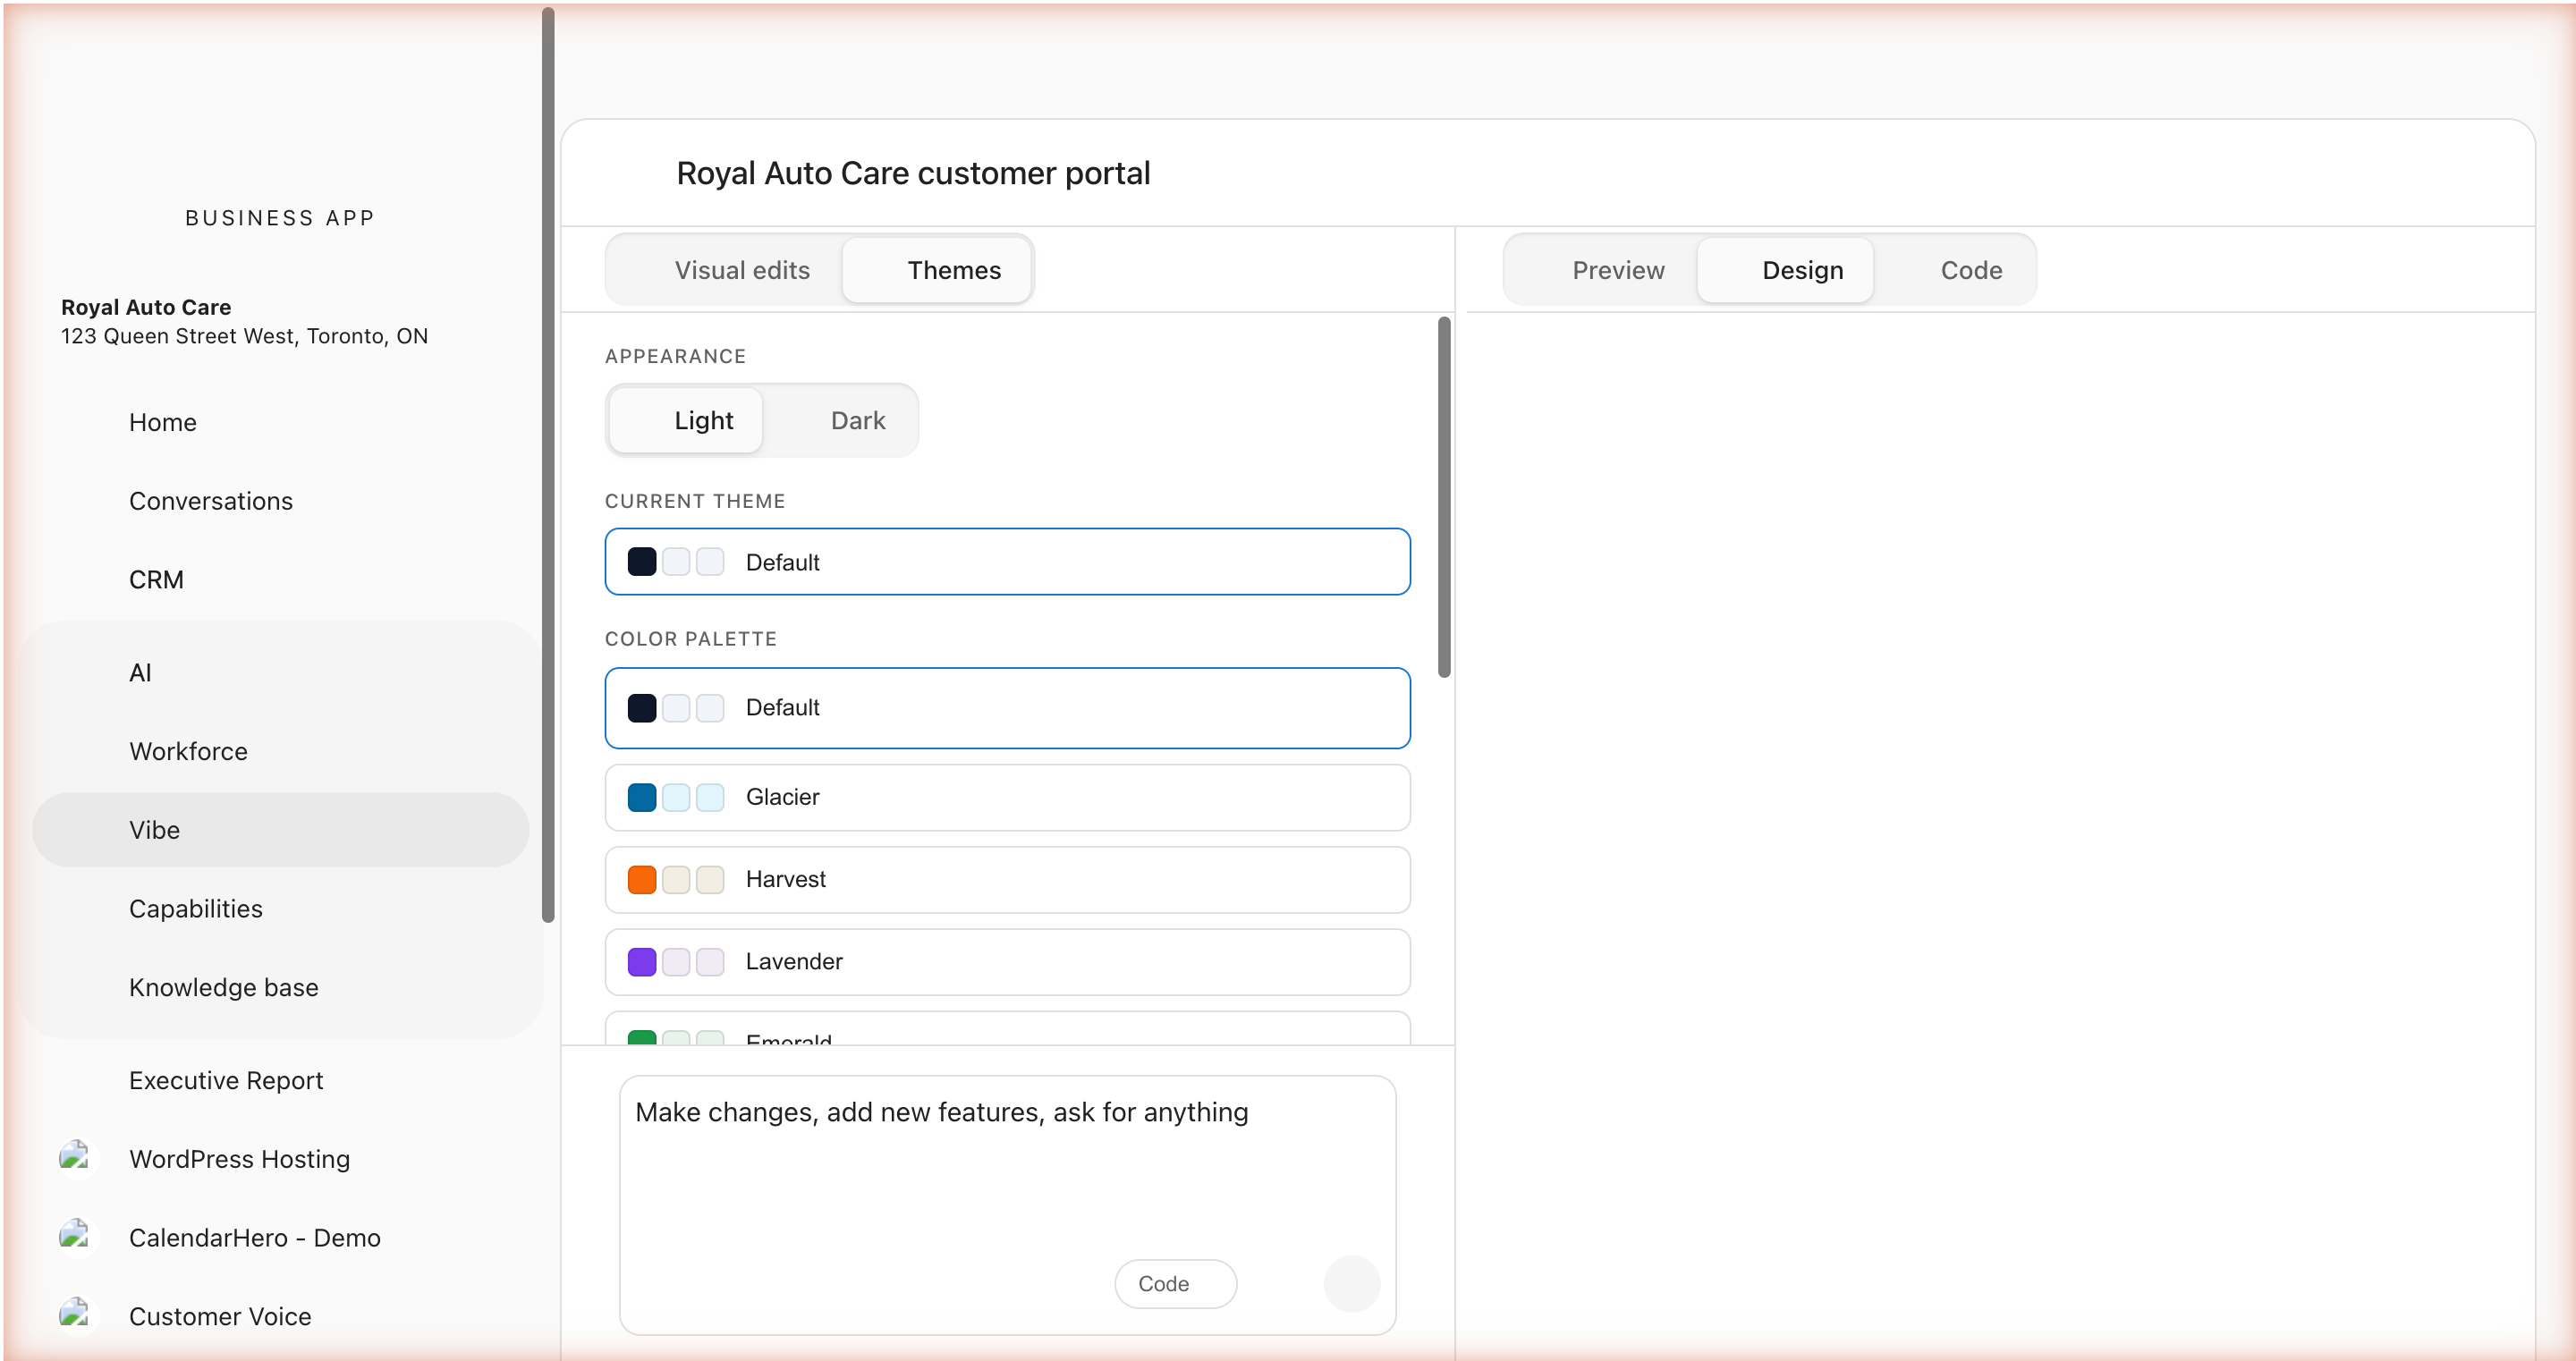
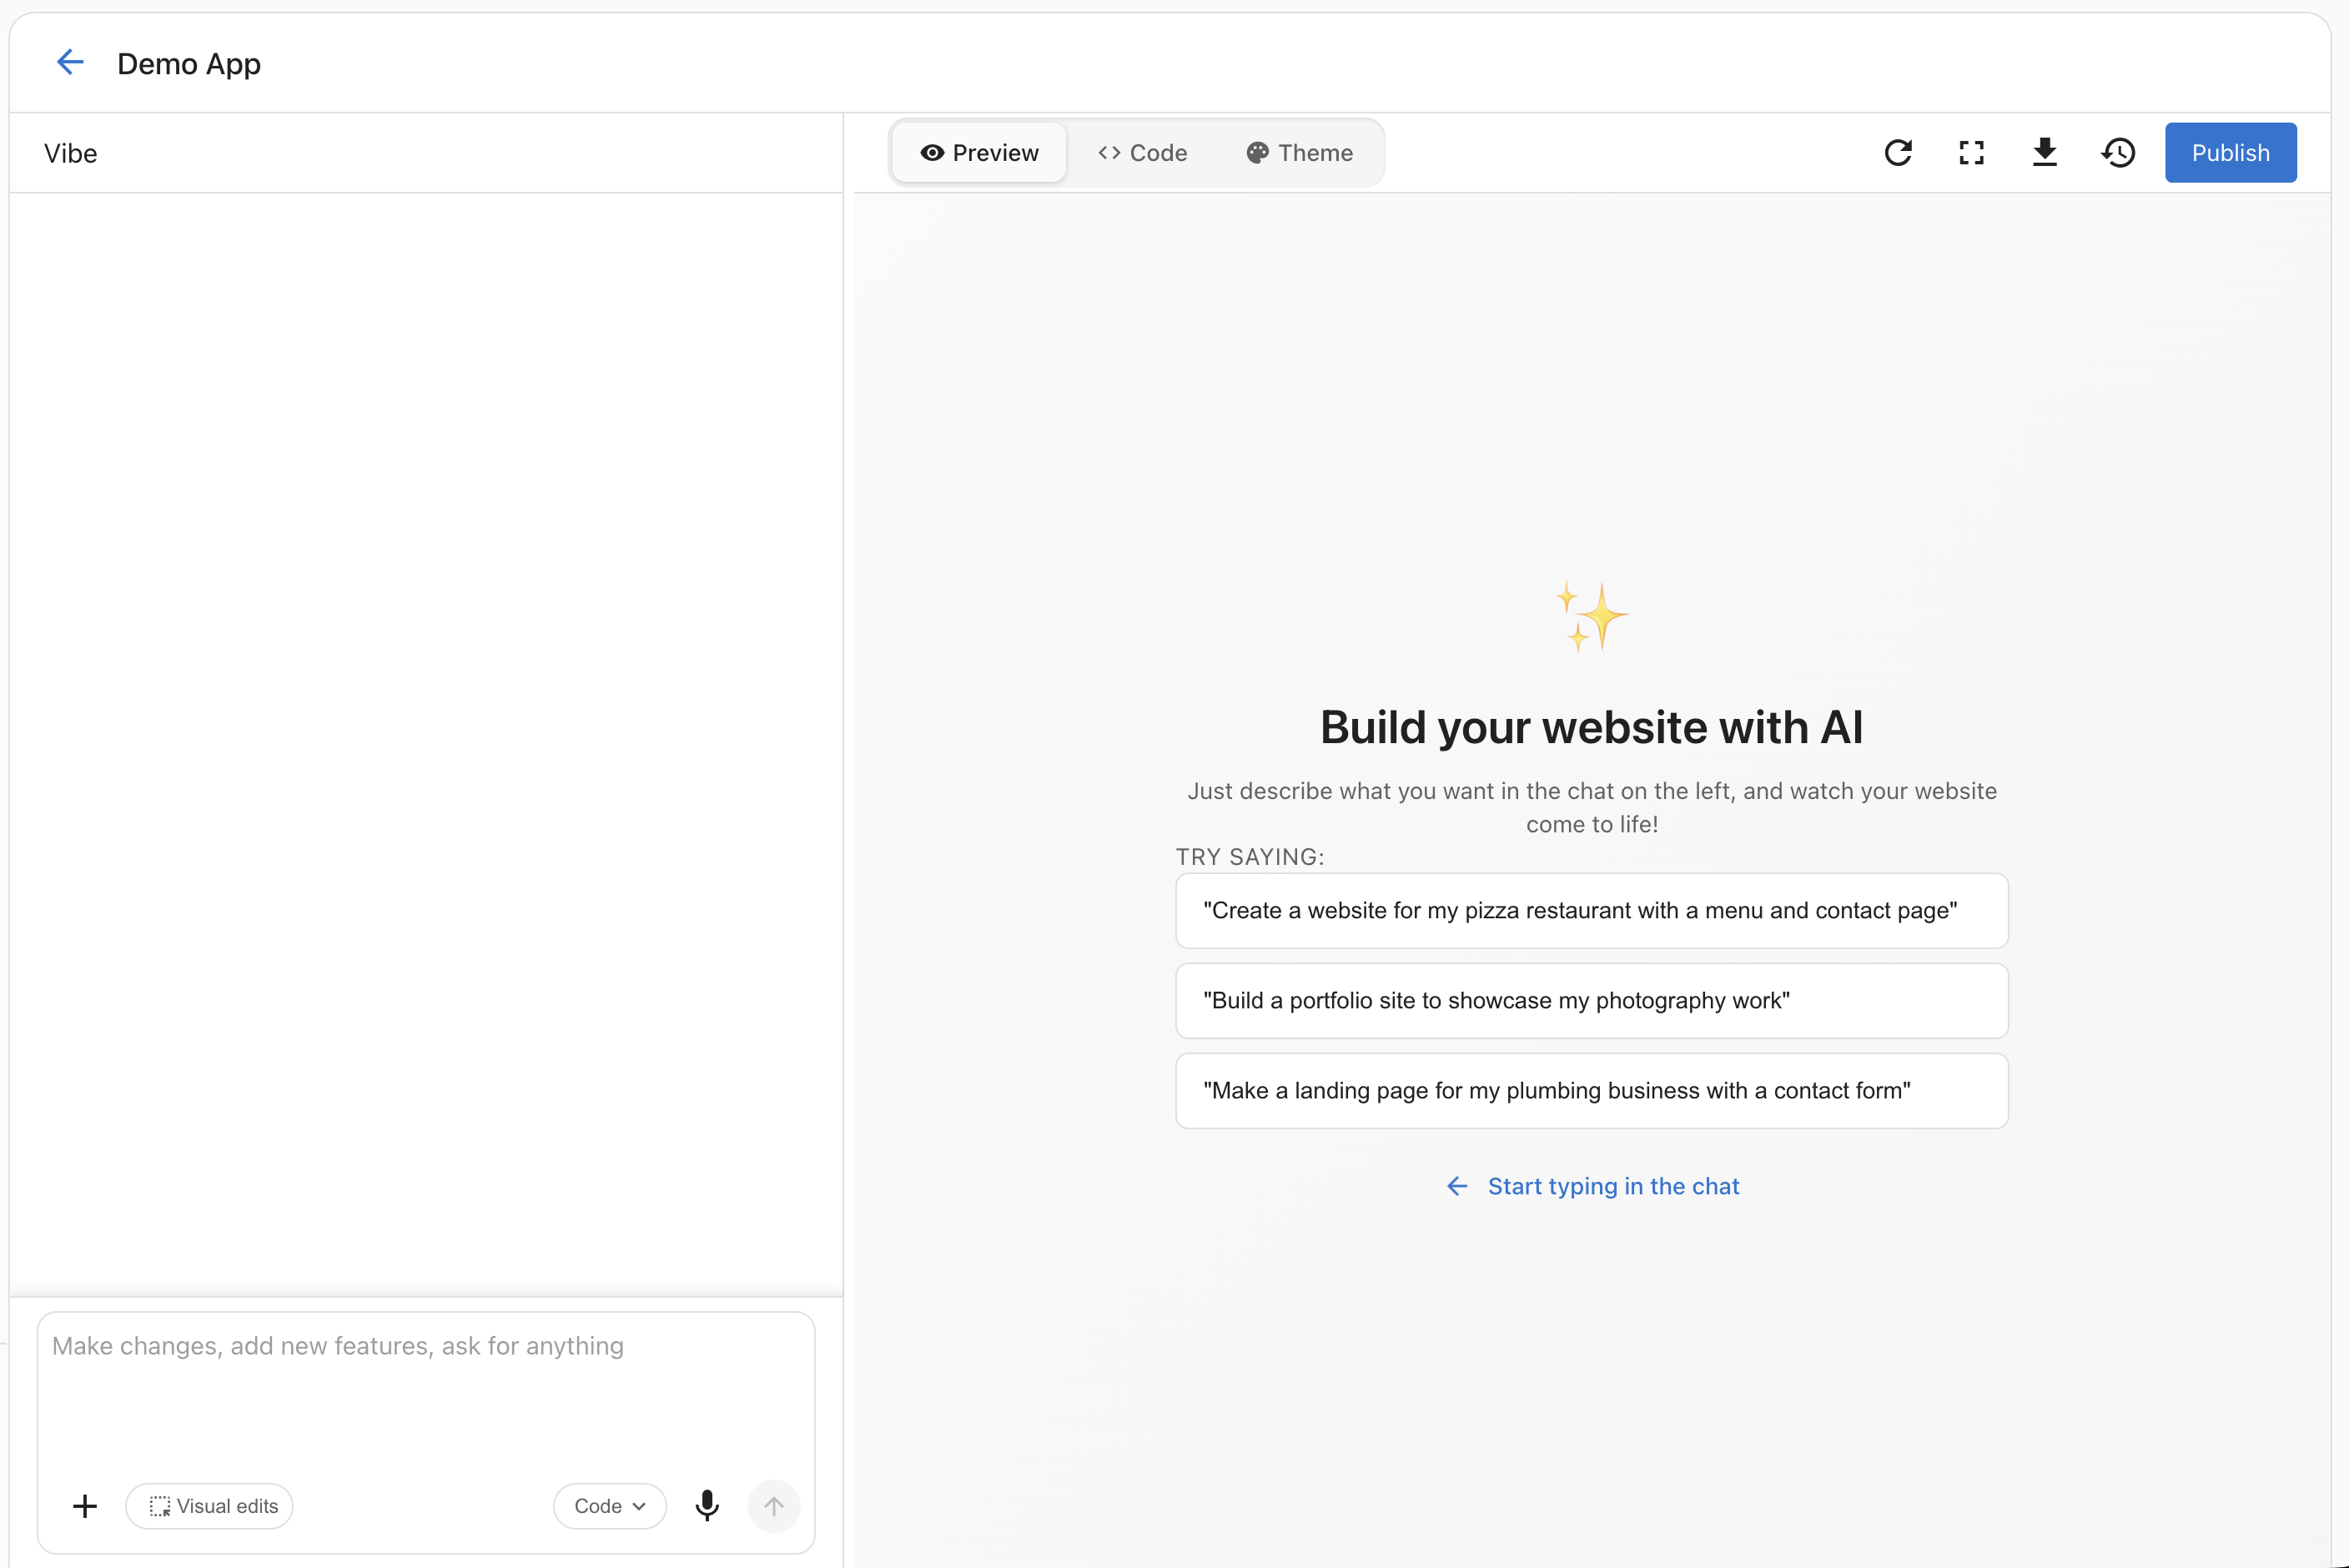
docs: update Vibe visual editor entry point to composer Visual edits button
Point users at the Visual edits toggle in the chat composer instead of the
Design tab/mode segmented control, and refresh the design-mode screenshot to
show the new composer button.

diff --git a/docusaurus/docs/business-app/ai/vibe/guides/visual-editor.md b/docusaurus/docs/business-app/ai/vibe/guides/visual-editor.md
@@ -6,7 +6,9 @@ unlisted: false
 
 # Visual Editor & Themes
 
-Vibe includes a visual editor that lets you customize your application's appearance without writing prompts or code. Switch to **Design** mode using the tab at the top of the editor.
+Vibe includes a visual editor that lets you customize your application's appearance without writing prompts or code. Turn on the **Visual edits** button in the chat composer to enter design mode.
+
+![The Vibe editor with the chat composer at the bottom left. The Visual edits button sits in the composer toolbar next to the add and Code controls, with the live application preview filling the panel on the right.](../img/design-mode-themes.png)
 
 ## Theme System
 
@@ -22,8 +24,6 @@ In Design mode, the left panel shows the **Themes** tab with:
 
 Available themes include:
 - Default, Glacier, Harvest, Lavender, Emerald, Coral, Midnight, Sand, Rose, Sunflower, Crimson, Slate, Ocean, and more.
-
-![Design mode Themes tab with Light selected, Default theme active, and the color palette list (Default, Glacier, Harvest, Lavender, Emerald) on the left next to the live application preview.](../img/design-mode-themes.png)
 
 ### Applying a Theme
 

diff --git a/docusaurus/docs/business-app/ai/vibe/guides/prompting-library.md b/docusaurus/docs/business-app/ai/vibe/guides/prompting-library.md
@@ -69,7 +69,7 @@ What to expect: a focused change to the navigation component with mobile-specifi
 
 ### Adjust copy on a specific element
 
-(After clicking the element in design mode.)
+(After turning on **Visual edits** and clicking the element.)
 
 > Change this headline to "Built for service businesses who hate paperwork" and make it slightly bolder.
 

diff --git a/docusaurus/docs/business-app/ai/vibe/index.md b/docusaurus/docs/business-app/ai/vibe/index.md
@@ -51,7 +51,7 @@ Every generation produces a structured plan that drives the run. The plan, the a
 Paste a URL and Vibe captures the screenshot, branding, layout, and content of that page, then scaffolds a faithful clone you can refine. The captured colors become a custom theme automatically. See [Cloning a reference site](./guides/clone-from-url.md).
 
 ### Visual Editor & Themes
-Switch to Design mode to browse pre-built color themes, toggle between light and dark mode, and make targeted edits by clicking elements in the preview. When you click an element, Vibe gets exact source context (file, line, JSX tag, classes), so any change you ask for lands precisely on the element you selected. See [Visual editor and themes](./guides/visual-editor.md).
+Turn on the **Visual edits** button in the chat composer to browse pre-built color themes, toggle between light and dark mode, and make targeted edits by clicking elements in the preview. When you click an element, Vibe gets exact source context (file, line, JSX tag, classes), so any change you ask for lands precisely on the element you selected. See [Visual editor and themes](./guides/visual-editor.md).
 
 ### Clarifying Questions
 When your request is ambiguous, Vibe pauses and asks before going further. Questions arrive as structured prompts — pick a chip, confirm yes or no, or type a one-line answer. The conversation resumes the moment you respond.